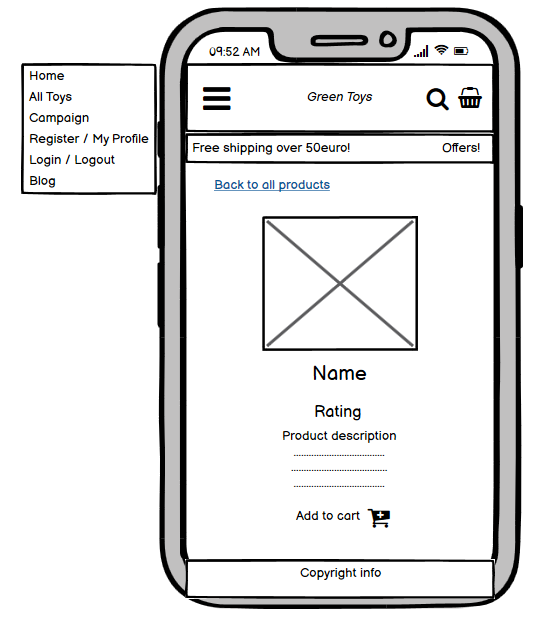
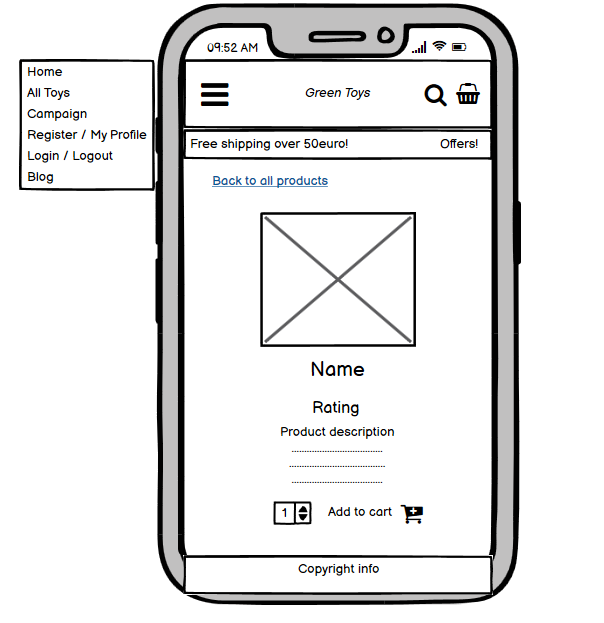
Added more wireframes

Changed region(s): [[0.031, 0.0, 0.9617, 0.9759], [0.4033, 0.3355, 0.7755, 0.61]]

diff --git a/README.md b/README.md
@@ -1,4 +1,4 @@
-# Eco-friendly toys webshop
+# Green toys webshop
 
 This site is the Milestone Project 4 for the Software Development Diploma course at Code Institute. The project is aimed at displaying my 
 understanding of full stack development with Django framework and building upon all previous learning in the course to put together a fully functional
@@ -94,20 +94,33 @@ The ideal client for this website is:
 
 ![Image of wireframe showing blog page on web](/static/readme-assets/readme-images/blog_web.png)
 
+![Image of wireframe showing individual blog post](/static/readme-assets/readme-images/individual_blog_post.png)
+
 9. As a site user I want to be able to easily register for an account so that I can have a personal account to come back to and view my profile
 
+![Image of wireframe showing registration page on mobile](/static/readme-assets/readme-images/register_mobile.png)
+
+![Image of wireframe showing registration page on web](/static/readme-assets/readme-images/register_web.png)
 
 10. As a site user I want to be able to easily log in or out so that I can access my personal account information
 
+![Image of wireframe showing login page on mobile](/static/readme-assets/readme-images/login_mobile.png)
+
+![Image of wireframe showing login page on web](/static/readme-assets/readme-images/login_web.png)
 
 11. As a site user I want to be able to easily recover my password in case I forget it so that I can regain access to my account
 
+![Image of wireframe showing close up of recreate password on login](/static/readme-assets/readme-images/recreatepassword_closeup.png)
 
 12. As a site user I want to be able to recieve a confirmation email after registering an account so that I can know that my account registration was successful
 
+![Image of wireframe showing registration confirmation message](/static/readme-assets/readme-images/registration_confirmation.png)
 
-13. As a site user I want to be able to Have a personalized user profile so that I can View my order history and see that my orders are confirmed and save my payment information
+13. As a site user I want to be able to have a personalized user profile so that I can view my order history and see that my orders are confirmed and save my payment information
 
+![Image of wireframe showing user profile page on mobile](/static/readme-assets/readme-images/user_profile_mobile.png)
+
+![Image of wireframe showing user profile page on web](/static/readme-assets/readme-images/user_profile_web.png)
 
 14. As a shopper I want to be able to select which category of products to show so that I can easily find a product within the category that I am interested in
 
@@ -125,6 +138,42 @@ The ideal client for this website is:
 
 18. As a shopper I want to be able to easily see what I have searched for and the number of results so that I can identify miss-spellings in my search string and quickly overview the search result
 
-![Image of wireframe showing search results page](/static/readme-assets/readme-images/search-results.png)
+![Image of wireframe showing search results page](/static/readme-assets/readme-images/search_results.png)
 
-19. 
+19. As a shopper I want to be able to easily select a quantity of the product when adding it to my shopping bag, so that I an ensure I don't accidently select the wrong quantity
+
+![Image of wireframe showing close up of quantity choose field on product details page](/static/readme-assets/readme-images/quantity_closeup.png)
+
+20. As a shopper I want to be able to easily view all items in my shopping bag so that I can identify the total cost and overview the items to be ordered
+
+![Image of wireframe of shopping bag page on mobile](/static/readme-assets/readme-images/shopping_bag_mobile.png)
+
+![Image of wireframe of shopping bag page on web](/static/readme-assets/readme-images/shopping_bag_web.png)
+
+21. As a shopper I want to be able to change the quantity of a product in my shopping bag so that I can correct any mistakes in quantity of products before I order
+
+![Image of wireframe showing close up of change quantity field in shopping bag](/static/readme-assets/readme-images/change_quantity_closeup.png)
+
+
+22. As a shopper I want to be able to easily enter my payment information so that I can checkout quickly and easily
+
+
+23. As a shopper I want to know that my personal and payment information is secure so that I can feel confident when providing the information needed to make a purchase
+
+
+24. As a shopper I want to be able to view an order confirmation after checkout so that I can see that I haven't made any mistakes in my order
+
+
+25. As a shopper I want to be able to recieve a confirmation email after ordering so that I can keep the information about what I have ordered and when for future needs
+
+
+26. As a registered user I want to be able to have my address and billing information prefilled on the checkout page so that I can checkout quicker
+
+
+27. As a store owner I want to be able to add a product to the site so that I can add new items to be sold in my store
+
+
+28. As a store owner I want to be able to edit/update a product so that I can make changes to the products' imahes or descriptions when needed
+
+
+29. As a store owner I want to be able to delete a product so that I can remove items that I am no longer selling
